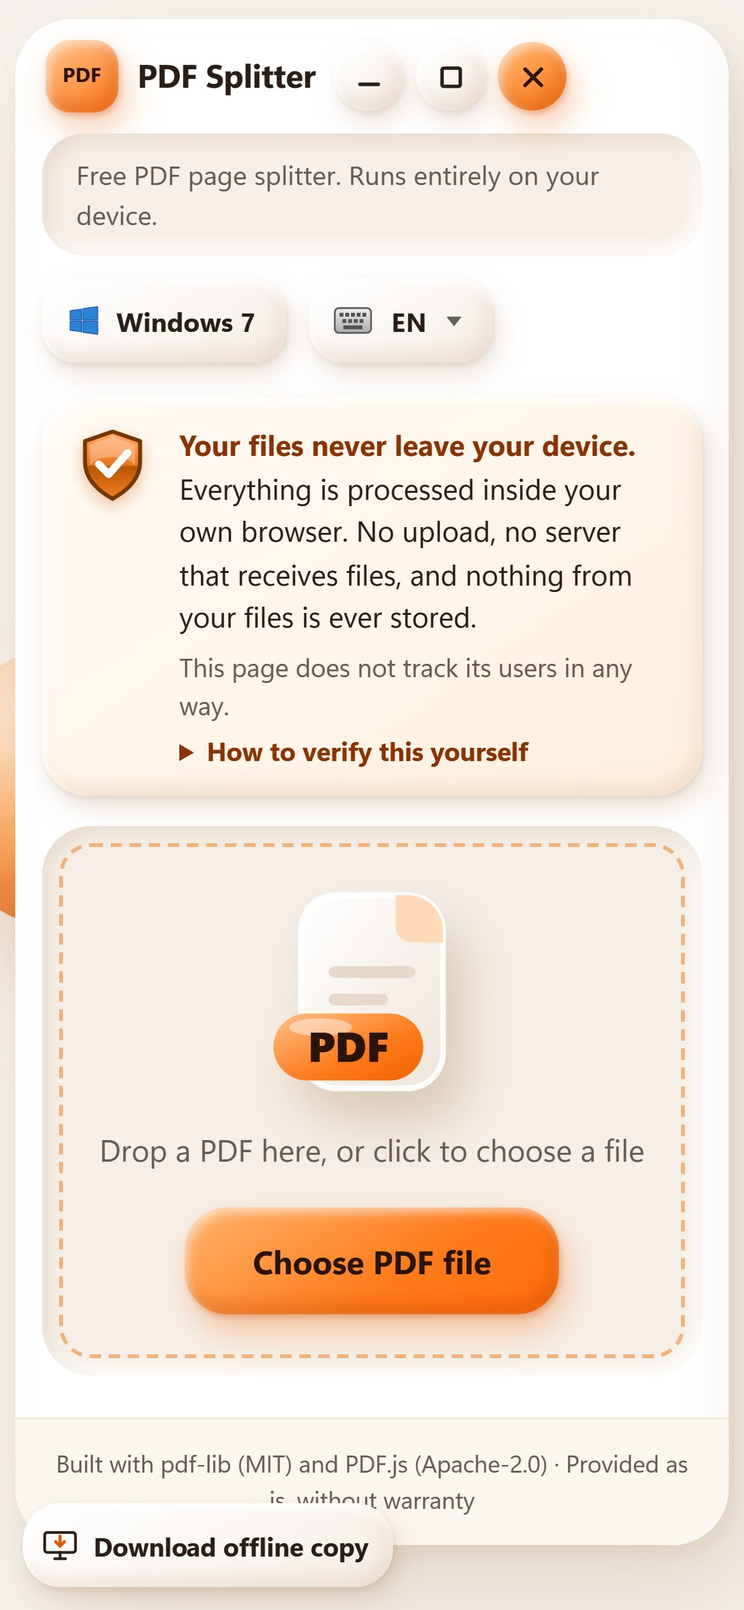
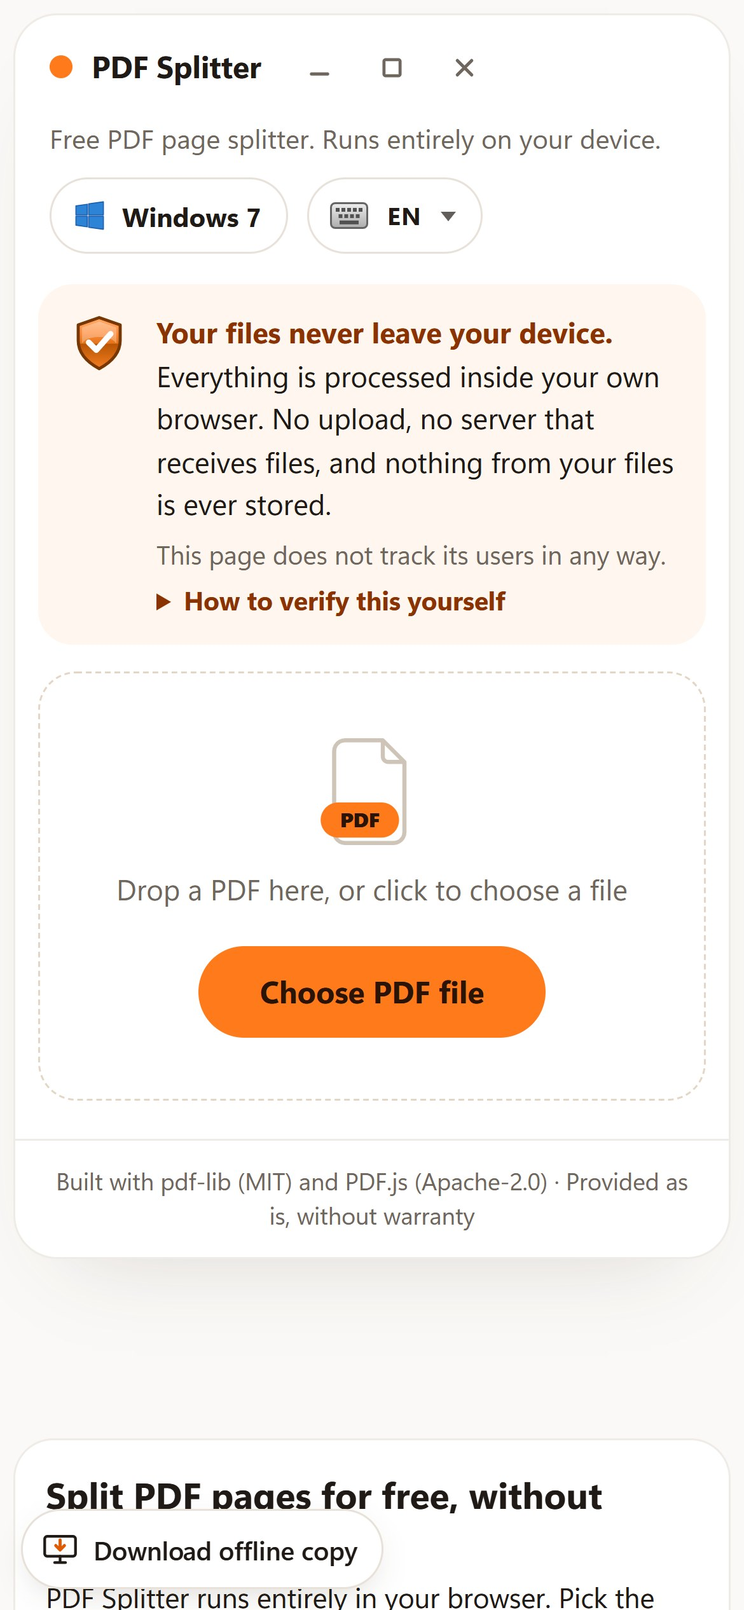
Clay look: make it minimalist (flat white, hairline borders, single orange accent, no decorative props)

diff --git a/template.html b/template.html
@@ -4,7 +4,7 @@
 <meta charset="utf-8">
 <meta http-equiv="Content-Security-Policy" content="/*CSP*/">
 <meta name="viewport" content="width=device-width, initial-scale=1">
-<meta name="theme-color" content="#f6f2ed">
+<meta name="theme-color" content="#faf9f7">
 <!--HEADTAGS-->
 <style>
   :root {
@@ -391,181 +391,140 @@
 
 
 
-  /* ===================== Theme: Modern Clay (white + orange), opt-in via the Clay button ===================== */
-  .scene-cl { display:none; }
+  /* ===================== Theme: Clay (default). Minimal: flat white, hairlines, one orange accent ===================== */
   .langbar .tb { width:18px; height:18px; flex:none; }
+  .big-clay { display:none; }
+  .themebtn[data-to="aero"] .tb-clay, .themebtn[data-to="clay"] .tb-win { display:none; }
+  .themebtn .tlabel { font-weight:700; }
+  html[data-theme="tui"] .themebtn .tlabel { display:inline; }
   html[data-theme="clay"] {
-    --ink:#2a1e16; --ink2:#6a5b50; --edge:rgba(120,80,40,.16);
-    --accent:#ff7a1a; --accent-hi:#ffb36b; --accent-ink:#b84200; --accent-deep:#8a3200;
-    --cream:#fbf6f0; --well:#f6efe7; --line:#f1e8de;
+    --ink:#1f1a16; --ink2:#6f665e; --edge:#e7e1da; --accent:#ff7a1a; --accent-hi:#ffb36b; --accent-ink:#b84200; --accent-deep:#8a3200;
+    --cream:#fbf9f6; --well:#f5f2ee; --line:#efebe6; --tint:#fff7ef;
     --font:ui-rounded,"SF Pro Rounded","Segoe UI Variable Text","Segoe UI","Leelawadee UI","Noto Sans Thai",system-ui,sans-serif;
-    --ease:cubic-bezier(.16,1,.3,1);
-    --sh-raise:inset 2px 3px 5px rgba(255,255,255,.95), inset -3px -5px 9px rgba(190,140,95,.18), 3px 7px 14px rgba(150,105,60,.18), 1px 2px 3px rgba(150,105,60,.14);
-    --sh-raise-hi:inset 2px 3px 5px #fff, inset -3px -5px 9px rgba(190,140,95,.16), 5px 12px 22px rgba(150,105,60,.22), 1px 3px 5px rgba(150,105,60,.14);
-    --sh-press:inset 4px 5px 10px rgba(160,110,65,.28), inset -2px -3px 6px rgba(255,255,255,.85);
-    --sh-well:inset 3px 4px 9px rgba(160,110,65,.17), inset -3px -4px 8px rgba(255,255,255,.95);
-    --sh-orange:inset 2px 3px 5px rgba(255,255,255,.55), inset -3px -5px 9px rgba(185,65,0,.35), 4px 9px 18px rgba(235,100,10,.32), 1px 2px 3px rgba(185,65,0,.25);
-    --sh-orange-hi:inset 2px 3px 5px rgba(255,255,255,.6), inset -3px -5px 9px rgba(185,65,0,.3), 6px 14px 24px rgba(235,100,10,.38), 1px 3px 5px rgba(185,65,0,.25);
-    --sh-orange-press:inset 4px 5px 10px rgba(160,55,0,.45), inset -2px -3px 6px rgba(255,190,130,.4);
-    --sh-card:inset 4px 6px 12px #fff, inset -6px -8px 18px rgba(190,150,110,.10), 16px 26px 56px rgba(150,105,60,.20), 3px 5px 10px rgba(150,105,60,.10);
-    background:#f6f2ed; scrollbar-color:#ffb36b #f6f2ed;
+    --ring:inset 0 0 0 1px #e7e1da; --ring-hi:inset 0 0 0 1px #d6cdc3; --ring-acc:inset 0 0 0 2px #ff7a1a;
+    background:#faf9f7; scrollbar-color:#e3d9cf #faf9f7;
   }
   html[data-theme="clay"] body { font-variant-numeric:tabular-nums; }
   html[data-theme="clay"] ::selection { background:#ff7a1a; color:#2a1408; }
   html[data-theme="clay"] input { caret-color:#ff7a1a; }
   html[data-theme="clay"] a { color:var(--accent-ink); text-underline-offset:3px; }
-  html[data-theme="clay"] :is(button,input,summary,.pg):focus-visible { outline:3px solid var(--accent); outline-offset:3px; box-shadow:var(--fs, none); }
+  html[data-theme="clay"] :is(button,summary,.pg):focus-visible { outline:2px solid var(--accent); outline-offset:2px; box-shadow:var(--fs, none); }
   html[data-theme="clay"] .scene { display:none; }
 
-  /* soft clay props behind the window (static: motion is reserved for state changes) */
-  html[data-theme="clay"] .scene-cl { display:block; position:fixed; inset:0; z-index:-1; overflow:hidden; pointer-events:none; }
-  .scene-cl .cb { position:absolute; display:block; }
-  .scene-cl .cb1 { width:clamp(150px,17vw,250px); aspect-ratio:1; left:calc(-1 * clamp(36px,4.5vw,80px)); top:40%; border-radius:50%;
-    background:radial-gradient(circle at 34% 28%, #ffdcbb 0 9%, #ffb068 34%, #ff7a1a 66%, #e86200 100%);
-    box-shadow:inset -14px -18px 30px rgba(170,60,0,.34), inset 10px 12px 22px rgba(255,255,255,.45), 22px 34px 50px rgba(200,100,30,.26); }
-  .scene-cl .cb2 { width:clamp(200px,24vw,340px); height:clamp(82px,9.5vw,136px); right:calc(-1 * clamp(40px,5vw,90px)); top:10%; border-radius:999px; rotate:-22deg;
-    background:linear-gradient(145deg,#fff,#f3ebe2);
-    box-shadow:inset 8px 10px 16px #fff, inset -10px -12px 22px rgba(190,150,110,.25), 20px 30px 50px rgba(150,105,60,.20); }
-  .scene-cl .cb3 { width:clamp(86px,9vw,132px); height:clamp(190px,21vw,300px); right:5vw; bottom:-6%; border-radius:999px; rotate:24deg;
-    background:linear-gradient(145deg,#ffd2a3,#ffa152 70%,#ff8e33);
-    box-shadow:inset 7px 9px 14px rgba(255,255,255,.55), inset -9px -12px 20px rgba(200,80,0,.28), 18px 28px 44px rgba(200,100,30,.24); }
-  .scene-cl .cb4 { width:clamp(54px,5.5vw,84px); aspect-ratio:1; left:7vw; top:9%; border-radius:50%;
-    background:radial-gradient(circle at 34% 28%, #fff 0 12%, #f6eee5 60%, #eadccd 100%);
-    box-shadow:inset -6px -8px 14px rgba(190,150,110,.28), 10px 16px 26px rgba(150,105,60,.2); }
-  @media (max-width:899px) { .scene-cl .cb2, .scene-cl .cb3 { display:none; } .scene-cl .cb1 { opacity:.9; } }
-
-  /* window */
-  html[data-theme="clay"] .win { max-width:1040px; margin:30px auto 100px; padding:0; border:0; border-radius:40px; background:#fff;
-    -webkit-backdrop-filter:none; backdrop-filter:none; box-shadow:var(--sh-card); }
-  html[data-theme="clay"] .titlebar { height:68px; gap:14px; padding:0 20px 0 22px; border-radius:40px 40px 0 0; }
+  /* window: one white sheet with a hairline */
+  html[data-theme="clay"] .win { max-width:960px; margin:40px auto 100px; padding:0; border:0; border-radius:28px; background:#fff;
+    -webkit-backdrop-filter:none; backdrop-filter:none; box-shadow:0 0 0 1px #efebe6, 0 24px 48px -28px rgba(60,40,20,.18); }
+  html[data-theme="clay"] .titlebar { height:60px; gap:12px; padding:0 14px 0 24px; border:0; border-radius:28px 28px 0 0; background:transparent; box-shadow:none; }
   html[data-theme="clay"] .titlebar svg.appico { display:none; }
-  html[data-theme="clay"] .titlebar::before { content:"PDF"; display:grid; place-items:center; width:42px; height:42px; flex:none; border-radius:15px;
-    font-size:11.5px; font-weight:800; letter-spacing:.2px; color:#2a1408; background:linear-gradient(145deg,#ffc089,#ff7a1a); box-shadow:var(--sh-orange); }
-  html[data-theme="clay"] h1 { font-size:19px; font-weight:800; letter-spacing:-.01em; color:var(--ink); text-shadow:none; }
-  html[data-theme="clay"] .caps { align-self:center; margin:0; gap:10px; }
-  html[data-theme="clay"] .caps button { width:38px; height:38px; min-height:0; margin:0; padding:0; border:0; border-radius:50%; color:var(--ink);
-    background:linear-gradient(145deg,#fff,#f4ede5); box-shadow:var(--sh-raise); --fs:var(--sh-raise);
-    transition:transform .18s var(--ease), box-shadow .18s var(--ease); }
+  html[data-theme="clay"] .titlebar::before { content:""; width:12px; height:12px; flex:none; border-radius:50%; background:var(--accent); }
+  html[data-theme="clay"] h1 { font-size:16px; font-weight:650; letter-spacing:-.005em; color:var(--ink); text-shadow:none; }
+  html[data-theme="clay"] .caps { align-self:center; margin:0 0 0 2px; gap:2px; }
+  html[data-theme="clay"] .caps button { width:34px; height:34px; min-height:0; margin:0; padding:0; border:0; border-radius:50%; color:var(--ink2);
+    background:transparent; box-shadow:none; --fs:none; transition:background .15s ease, color .15s ease; }
   html[data-theme="clay"] .caps button::after { content:none; }
   html[data-theme="clay"] .caps .ia, html[data-theme="clay"] .caps .it { display:none; }
-  html[data-theme="clay"] .caps .iu { display:block; width:17px; height:17px; }
-  html[data-theme="clay"] .caps .c3 { color:#2a1408; background:linear-gradient(145deg,#ffb36b,#ff7a1a); box-shadow:var(--sh-orange); --fs:var(--sh-orange); }
-  html[data-theme="clay"] .caps button:hover:not(:disabled) { transform:translateY(-2px); background:linear-gradient(145deg,#fff,#fbf4ec); box-shadow:var(--sh-raise-hi); }
-  html[data-theme="clay"] .caps .c3:hover:not(:disabled) { background:linear-gradient(145deg,#ffc089,#ff8a33); box-shadow:var(--sh-orange-hi); }
-  html[data-theme="clay"] .caps button:active:not(:disabled) { transform:translateY(1px); box-shadow:var(--sh-press); }
-  html[data-theme="clay"] .caps .c3:active:not(:disabled) { box-shadow:var(--sh-orange-press); }
+  html[data-theme="clay"] .caps .iu { display:block; width:15px; height:15px; }
+  html[data-theme="clay"] .caps button:hover:not(:disabled) { transform:none; color:var(--ink); background:var(--well); box-shadow:none; }
+  html[data-theme="clay"] .caps .c3:hover:not(:disabled) { color:var(--accent-deep); background:#ffe9d6; }
+  html[data-theme="clay"] .caps button:active:not(:disabled) { transform:none; background:#ece6df; box-shadow:none; }
 
-  /* address row: tagline well + the two selector buttons */
-  html[data-theme="clay"] .addr { gap:12px; padding:2px 22px 16px; }
-  html[data-theme="clay"] .abar { padding:11px 18px; border:0; border-radius:22px; background:var(--well); box-shadow:var(--sh-well); }
+  /* address row: plain tagline + the two look/language pills */
+  html[data-theme="clay"] .addr { gap:10px; padding:0 24px 16px; }
+  html[data-theme="clay"] .abar { padding:0; border:0; border-radius:0; background:none; box-shadow:none; }
   html[data-theme="clay"] .abar svg { display:none; }
   html[data-theme="clay"] .abar .hint { color:var(--ink2); font-size:14px; }
-  html[data-theme="clay"] .client { background:transparent; border:0; border-radius:0 0 40px 40px; box-shadow:none; }
+  html[data-theme="clay"] .client { background:transparent; border:0; border-radius:0 0 28px 28px; box-shadow:none; }
 
-  /* buttons */
-  html[data-theme="clay"] button { min-height:44px; padding:8px 20px; border:0; border-radius:18px; color:var(--ink); font-weight:600; text-shadow:none;
-    background:linear-gradient(145deg,#fff,#f5eee6); box-shadow:var(--sh-raise); --fs:var(--sh-raise);
-    transition:transform .18s var(--ease), box-shadow .18s var(--ease), background .18s ease; }
-  html[data-theme="clay"] button:hover:not(:disabled) { transform:translateY(-2px); border:0; background:linear-gradient(145deg,#fff,#fbf4ec); box-shadow:var(--sh-raise-hi); }
-  html[data-theme="clay"] button:active:not(:disabled) { transform:translateY(1px); border:0; background:linear-gradient(145deg,#f7f0e8,#f3ebe2); box-shadow:var(--sh-press); }
+  /* buttons: white pill with a hairline; the only filled button is the primary action */
+  html[data-theme="clay"] button { min-height:40px; padding:8px 18px; border:0; border-radius:999px; color:var(--ink); font-weight:600; text-shadow:none; transform:none;
+    background:#fff; box-shadow:var(--ring); --fs:var(--ring); transition:background .15s ease, box-shadow .15s ease; }
+  html[data-theme="clay"] button:hover:not(:disabled) { border:0; transform:none; background:#faf7f4; box-shadow:var(--ring-hi); }
+  html[data-theme="clay"] button:active:not(:disabled) { border:0; transform:none; background:#f1ede8; box-shadow:var(--ring-hi); }
   html[data-theme="clay"] button:disabled, html[data-theme="clay"] button.primary:disabled, html[data-theme="clay"] button.alt:disabled {
-    cursor:not-allowed; transform:none; color:#9a8b7e; text-shadow:none; background:#f1ebe4; box-shadow:inset 2px 2px 5px rgba(160,110,65,.12), inset -2px -2px 4px rgba(255,255,255,.8); }
-  html[data-theme="clay"] button.primary { color:#2a1408; font-weight:800; background:linear-gradient(145deg,#ffb36b,#ff7a1a 60%,#ff6d0a); box-shadow:var(--sh-orange); --fs:var(--sh-orange); }
-  html[data-theme="clay"] button.primary:hover:not(:disabled) { background:linear-gradient(145deg,#ffc089,#ff8a33 60%,#ff7a1a); box-shadow:var(--sh-orange-hi); }
-  html[data-theme="clay"] button.primary:active:not(:disabled) { background:linear-gradient(145deg,#ff8a33,#ff6d0a); box-shadow:var(--sh-orange-press); }
-  html[data-theme="clay"] button.alt { color:var(--accent-deep); font-weight:700; background:linear-gradient(145deg,#fff4e8,#ffe0c2); box-shadow:var(--sh-raise); }
-  html[data-theme="clay"] button.alt:hover:not(:disabled) { background:linear-gradient(145deg,#fff8f0,#ffe7cf); box-shadow:var(--sh-raise-hi); }
-  html[data-theme="clay"] button.alt:active:not(:disabled) { background:linear-gradient(145deg,#ffe3c8,#ffd7b0); box-shadow:var(--sh-press); }
-  html[data-theme="clay"] button.big { min-height:56px; padding:12px 36px; border-radius:22px; font-size:17px; }
-  html[data-theme="clay"] .langbar { gap:8px; padding:8px 16px 8px 13px; color:var(--ink); }
+    cursor:not-allowed; transform:none; color:#857a70; text-shadow:none; background:#f4f1ed; box-shadow:none; }
+  html[data-theme="clay"] button.primary { color:#2a1408; font-weight:700; background:var(--accent); box-shadow:none; --fs:none; }
+  html[data-theme="clay"] button.primary:hover:not(:disabled) { background:#ff8a33; box-shadow:none; }
+  html[data-theme="clay"] button.primary:active:not(:disabled) { background:#f06b0a; box-shadow:none; }
+  html[data-theme="clay"] button.alt { color:var(--accent-deep); font-weight:700; background:#fff2e6; box-shadow:none; --fs:none; }
+  html[data-theme="clay"] button.alt:hover:not(:disabled) { background:#ffe9d6; box-shadow:none; }
+  html[data-theme="clay"] button.alt:active:not(:disabled) { background:#ffdfc4; box-shadow:none; }
+  html[data-theme="clay"] button.big { min-height:48px; padding:12px 32px; font-size:16px; }
+  html[data-theme="clay"] .langbar { gap:8px; padding:6px 14px 6px 12px; color:var(--ink); }
   html[data-theme="clay"] .langbar .kb { filter:grayscale(1) contrast(.9); }
-  html[data-theme="clay"] .langbar .lcode { font-size:13.5px; letter-spacing:.4px; }
+  html[data-theme="clay"] .langbar .lcode { font-size:13px; letter-spacing:.4px; }
 
-  /* privacy notice: warm cream pillow, shield tinted orange */
-  html[data-theme="clay"] .privacy { gap:4px 14px; margin:6px 22px 20px; padding:18px 22px; color:var(--ink); border:0; border-radius:28px;
-    background:linear-gradient(145deg,#fffaf4,#fff0df); box-shadow:var(--sh-raise); }
-  html[data-theme="clay"] .privacy > svg { width:42px; height:42px; filter:hue-rotate(-78deg) saturate(1.2) drop-shadow(0 3px 4px rgba(200,90,0,.35)); }
+  /* privacy notice: pale tint, no shadow */
+  html[data-theme="clay"] .privacy { gap:4px 14px; margin:4px 24px 20px; padding:16px 20px; color:var(--ink); border:0; border-radius:20px; background:var(--tint); box-shadow:none; }
+  html[data-theme="clay"] .privacy > svg { width:32px; height:32px; filter:hue-rotate(-78deg) saturate(1.2); }
   html[data-theme="clay"] .privacy b { color:var(--accent-deep); }
   html[data-theme="clay"] .privacy .hint, html[data-theme="clay"] .privacy details { color:var(--ink2); }
   html[data-theme="clay"] .privacy summary { color:var(--accent-deep); font-weight:700; }
 
-  /* drop zone: a pressed-in well with a dashed ring */
-  html[data-theme="clay"] #drop { margin:0 22px 28px; padding:40px 22px 44px; border:0; border-radius:32px; outline:2px dashed #f2b27a; outline-offset:-15px;
-    background:var(--well); box-shadow:var(--sh-well); transition:background .18s ease, outline-color .18s ease; }
-  html[data-theme="clay"] #drop.over { background:#fff1e3; outline-color:var(--accent); box-shadow:var(--sh-well); }
-  html[data-theme="clay"] #drop .big-ico { width:112px; height:112px; filter:hue-rotate(-8deg) saturate(.95) drop-shadow(10px 16px 14px rgba(150,105,60,.3)); }
-  html[data-theme="clay"] #drop p { color:var(--ink2); font-size:16px; }
+  /* drop zone: a dashed hairline, nothing else */
+  html[data-theme="clay"] #drop { margin:0 24px 28px; padding:44px 22px 48px; border:1.5px dashed #e4d6c6; border-radius:24px; outline:0; background:transparent; box-shadow:none;
+    transition:background .15s ease, border-color .15s ease; }
+  html[data-theme="clay"] #drop.over { background:var(--tint); border-color:var(--accent); box-shadow:none; }
+  html[data-theme="clay"] #drop .big-ico { display:none; }
+  html[data-theme="clay"] #drop .big-clay { display:block; width:84px; height:84px; margin:0 auto; }
+  html[data-theme="clay"] #drop p { color:var(--ink2); font-size:15px; }
 
   /* command bar */
-  html[data-theme="clay"] .tools { background:#fff; border-top:0; border-bottom:1px solid var(--line); box-shadow:0 12px 20px -16px rgba(150,105,60,.45); }
-  html[data-theme="clay"] .bar { gap:10px; padding:14px 22px; }
-  html[data-theme="clay"] .bar + .bar { border-top:1px solid var(--line); }
+  html[data-theme="clay"] .tools { background:#fff; border-top:0; border-bottom:1px solid var(--line); box-shadow:none; }
+  html[data-theme="clay"] .bar { gap:8px; padding:12px 24px; }
+  html[data-theme="clay"] .bar + .bar { border-top:0; }
   html[data-theme="clay"] .bar b { color:var(--ink); }
-  html[data-theme="clay"] .bar input[type=text] { width:220px; min-height:44px; padding:8px 18px; border:0; border-radius:18px; color:var(--ink); background:var(--well);
-    box-shadow:var(--sh-well); --fs:var(--sh-well); }
-  html[data-theme="clay"] .bar input[type=text]:focus { border:0; box-shadow:var(--sh-well); }
+  html[data-theme="clay"] .bar input[type=text] { width:200px; min-height:40px; padding:8px 16px; border:0; border-radius:999px; color:var(--ink); background:var(--well); box-shadow:none; }
+  html[data-theme="clay"] .bar input[type=text]:focus { border:0; outline:none; background:#fff; box-shadow:var(--ring-acc); }
   html[data-theme="clay"] #msg { color:var(--accent-ink); }
   html[data-theme="clay"] .hint { color:var(--ink2); }
-  html[data-theme="clay"] .howto { padding:14px 22px 4px; }
+  html[data-theme="clay"] .howto { padding:12px 24px 4px; }
 
-  /* thumbnails: soft tiles, selected = orange-ringed and warm */
-  html[data-theme="clay"] #grid { gap:14px; padding:12px 22px 28px; }
-  html[data-theme="clay"] .pg { --pgs:none; --fs:var(--pgs); padding:12px 12px 10px; border:0; border-radius:24px; box-shadow:var(--pgs);
-    transition:transform .18s var(--ease), background .18s ease, box-shadow .18s var(--ease); }
-  html[data-theme="clay"] .pg:hover { --pgs:var(--sh-raise); background:#fffaf5; border:0; transform:translateY(-2px); }
-  html[data-theme="clay"] .pg.sel { --pgs:inset 0 0 0 3px var(--accent), 4px 9px 16px rgba(235,100,10,.22); background:linear-gradient(145deg,#fff5ea,#ffe6cd); border:0; }
-  html[data-theme="clay"] .pg canvas { border:0; border-radius:14px; background:#fff; box-shadow:0 7px 16px rgba(150,105,60,.28), 0 1px 3px rgba(150,105,60,.2); }
-  html[data-theme="clay"] .pg .n { color:var(--ink); margin-top:10px; }
+  /* thumbnails: bare tiles, selected = orange ring */
+  html[data-theme="clay"] #grid { gap:16px; padding:12px 24px 28px; }
+  html[data-theme="clay"] .pg { --fs:none; padding:10px 10px 8px; border:0; border-radius:18px; background:transparent; box-shadow:none;
+    transition:background .15s ease, box-shadow .15s ease; }
+  html[data-theme="clay"] .pg:hover { background:#faf7f3; border:0; transform:none; box-shadow:none; }
+  html[data-theme="clay"] .pg.sel { --fs:var(--ring-acc); background:var(--tint); border:0; box-shadow:var(--ring-acc); }
+  html[data-theme="clay"] .pg canvas { border:0; border-radius:8px; background:#fff; box-shadow:0 0 0 1px #ece6df, 0 2px 6px rgba(60,40,20,.08); }
+  html[data-theme="clay"] .pg .n { color:var(--ink2); margin-top:8px; }
   html[data-theme="clay"] .pg.sel .n { color:var(--accent-deep); font-weight:700; }
-  html[data-theme="clay"] .pg .ck { top:19px; right:19px; filter:hue-rotate(176deg) saturate(1.15) drop-shadow(0 3px 4px rgba(170,70,0,.4)); }
-  html[data-theme="clay"] .status { margin-top:0; padding:16px 22px; color:var(--ink2); background:var(--cream); border-top:1px solid var(--line); border-radius:0 0 40px 40px; }
+  html[data-theme="clay"] .pg .ck { top:16px; right:16px; filter:hue-rotate(176deg) saturate(1.15); }
+  html[data-theme="clay"] .status { margin-top:0; padding:14px 24px; color:var(--ink2); background:transparent; border-top:1px solid var(--line); border-radius:0 0 28px 28px; }
 
-  /* offline download button, about section, easter-egg tooltip */
-  html[data-theme="clay"] .dl { left:18px; bottom:18px; color:var(--ink); font-weight:700; border:0; border-radius:20px; background:linear-gradient(145deg,#fff,#f5eee6); box-shadow:var(--sh-raise);
-    transition:transform .18s var(--ease), box-shadow .18s var(--ease); }
-  html[data-theme="clay"] .dl:hover { transform:translateY(-2px); background:linear-gradient(145deg,#fff,#fbf4ec); border:0; box-shadow:var(--sh-raise-hi); }
-  html[data-theme="clay"] .dl:active { transform:translateY(1px); box-shadow:var(--sh-press); }
+  /* offline download pill, about section, easter-egg tooltip */
+  html[data-theme="clay"] .dl { left:18px; bottom:18px; min-height:40px; color:var(--ink); font-weight:600; border:0; border-radius:999px; background:#fff;
+    box-shadow:0 0 0 1px #e7e1da, 0 6px 18px -6px rgba(60,40,20,.22); transition:background .15s ease; }
+  html[data-theme="clay"] .dl:hover { background:#faf7f4; border:0; transform:none; }
   html[data-theme="clay"] .dl svg path:last-child { stroke:#e05a00; }
-  html[data-theme="clay"] .about { max-width:1040px; color:var(--ink); border:0; border-radius:32px; background:#fff; box-shadow:var(--sh-card); }
+  html[data-theme="clay"] .about { max-width:960px; color:var(--ink); border:0; border-radius:24px; background:#fff; box-shadow:0 0 0 1px #efebe6; }
   html[data-theme="clay"] .about a { color:var(--accent-ink); }
   html[data-theme="clay"] .about code { color:var(--accent-deep); border:0; border-radius:8px; background:#fff0df; }
-  html[data-theme="clay"] .about details { border:0; border-radius:20px; background:var(--well); box-shadow:var(--sh-well); }
+  html[data-theme="clay"] .about details { border:0; border-radius:16px; background:var(--well); box-shadow:none; }
   html[data-theme="clay"] .about summary { color:var(--ink); }
-  html[data-theme="clay"] .nojs { color:var(--ink); background:#fff; border:0; border-radius:20px; box-shadow:var(--sh-raise); }
-  html[data-theme="clay"] .oops-tip { color:var(--ink); border:0; border-radius:16px; background:#fff; box-shadow:var(--sh-raise-hi); }
+  html[data-theme="clay"] .nojs { color:var(--ink); background:#fff; border:0; border-radius:16px; box-shadow:var(--ring); }
+  html[data-theme="clay"] .oops-tip { color:var(--ink); border:0; border-radius:12px; background:#fff; box-shadow:0 0 0 1px #e7e1da, 0 8px 20px -8px rgba(60,40,20,.25); }
   html[data-theme="clay"] .oops-tip::before { background:#fff; border:0; }
-  html[data-theme="tui"] .themebtn .tlabel { display:inline; }
 
   @media (max-width:699px) {
-    html[data-theme="clay"] .win { margin:10px 8px 96px; border-radius:30px; }
-    html[data-theme="clay"] .titlebar { height:60px; padding:0 14px 0 16px; border-radius:30px 30px 0 0; gap:10px; }
-    html[data-theme="clay"] .titlebar::before { width:38px; height:38px; border-radius:13px; font-size:10.5px; }
-    html[data-theme="clay"] h1 { font-size:17px; }
-    html[data-theme="clay"] .caps { gap:7px; }
-    html[data-theme="clay"] .caps button { width:36px; height:36px; }
-    html[data-theme="clay"] .addr { padding:0 14px 14px; flex-wrap:wrap; }
+    html[data-theme="clay"] .win { margin:8px 8px 96px; border-radius:22px; }
+    html[data-theme="clay"] .titlebar { height:54px; padding:0 8px 0 18px; border-radius:22px 22px 0 0; gap:10px; }
+    html[data-theme="clay"] .caps { gap:0; }
+    html[data-theme="clay"] .caps button { width:38px; height:38px; }
+    html[data-theme="clay"] .addr { padding:0 18px 12px; flex-wrap:wrap; }
     html[data-theme="clay"] .abar { flex:1 1 100%; }
-    html[data-theme="clay"] .privacy { margin:4px 14px 16px; padding:14px 16px; border-radius:24px; }
-    html[data-theme="clay"] #drop { margin:0 14px 22px; padding:28px 14px 32px; border-radius:26px; outline-offset:-11px; }
-    html[data-theme="clay"] #drop .big-clay { width:96px; height:96px; }
-    html[data-theme="clay"] .bar { padding:12px 14px; }
+    html[data-theme="clay"] .privacy { margin:4px 12px 14px; padding:14px 16px; border-radius:18px; }
+    html[data-theme="clay"] #drop { margin:0 12px 20px; padding:28px 14px 32px; border-radius:20px; }
+    html[data-theme="clay"] #drop .big-clay { width:68px; height:68px; }
+    html[data-theme="clay"] .bar { padding:10px 16px; }
     html[data-theme="clay"] .bar input[type=text] { flex:1 1 100%; width:auto; }
-    html[data-theme="clay"] button { min-height:44px; }
-    html[data-theme="clay"] .howto { padding:10px 14px 4px; }
+    html[data-theme="clay"] .howto { padding:10px 16px 4px; }
     html[data-theme="clay"] #grid { gap:8px; padding:8px 12px 20px; }
-    html[data-theme="clay"] .pg { padding:10px 10px 8px; border-radius:20px; }
-    html[data-theme="clay"] .status { border-radius:0 0 30px 30px; padding:14px 16px; }
-    html[data-theme="clay"] .client { border-radius:0 0 30px 30px; }
-    html[data-theme="clay"] .dl { left:12px; bottom:12px; min-height:44px; }
-    html[data-theme="clay"] .about { margin:0 8px 110px; padding:16px 16px 18px; border-radius:26px; }
+    html[data-theme="clay"] .pg { padding:8px 8px 6px; border-radius:16px; }
+    html[data-theme="clay"] .status { border-radius:0 0 22px 22px; padding:12px 16px; }
+    html[data-theme="clay"] .client { border-radius:0 0 22px 22px; }
+    html[data-theme="clay"] .dl { left:12px; bottom:12px; }
+    html[data-theme="clay"] .about { margin:0 8px 110px; padding:16px 16px 18px; border-radius:20px; }
   }
-
-
-  .big-clay { display:none; }
-  html[data-theme="clay"] #drop .big-ico { display:none; }
-  html[data-theme="clay"] #drop .big-clay { display:block; width:124px; height:124px; margin:0 auto; filter:drop-shadow(10px 16px 14px rgba(150,105,60,.3)); }
-  .themebtn[data-to="aero"] .tb-clay, .themebtn[data-to="clay"] .tb-win { display:none; }
-  .themebtn .tlabel { font-weight:700; }
 
   /* ===================== About / FAQ (static, crawler-visible) ===================== */
   .about { max-width:860px; margin:0 auto 110px; padding:20px 24px 22px; color:var(--ink); font-size:14.5px; line-height:1.65;
@@ -752,7 +711,6 @@
     <ellipse cx="-58" cy="-92" rx="74" ry="34" fill="#fff" opacity=".2" transform="rotate(-24 -58 -92)"/>
   </g>
 </svg></div>
-<div class="scene-cl" aria-hidden="true"><i class="cb cb1"></i><i class="cb cb2"></i><i class="cb cb3"></i><i class="cb cb4"></i></div>
 <div class="ub-shell" aria-hidden="true">
   <div class="ub-panel">
     <div>Activities</div>
@@ -807,7 +765,7 @@
 
   <div id="drop">
     <svg class="big-ico" aria-hidden="true" focusable="false"><use href="#i-pdf"/></svg>
-    <svg class="big-clay" viewBox="0 0 120 120" aria-hidden="true" focusable="false"><defs><linearGradient id="cg1" x1="0" y1="0" x2="1" y2="1"><stop offset="0" stop-color="#ffffff"/><stop offset="1" stop-color="#efe5da"/></linearGradient><linearGradient id="cg2" x1="0" y1="0" x2="1" y2="1"><stop offset="0" stop-color="#ffc089"/><stop offset=".6" stop-color="#ff7a1a"/><stop offset="1" stop-color="#f06400"/></linearGradient></defs><rect x="24" y="8" width="72" height="98" rx="18" fill="url(#cg1)"/><rect x="24" y="8" width="72" height="98" rx="18" fill="none" stroke="#fff" stroke-width="3" opacity=".9"/><path d="M72 8h6a18 18 0 0 1 18 18v6H80a8 8 0 0 1-8-8z" fill="#ffd9b8"/><rect x="38" y="44" width="44" height="6" rx="3" fill="#e6d9cb"/><rect x="38" y="58" width="30" height="6" rx="3" fill="#e6d9cb"/><rect x="10" y="68" width="76" height="34" rx="17" fill="url(#cg2)"/><ellipse cx="34" cy="75" rx="16" ry="4.500" fill="#fff" opacity=".45"/><text x="48" y="92.500" text-anchor="middle" font-family="Segoe UI,Arial,sans-serif" font-size="21" font-weight="800" fill="#2a1408">PDF</text></svg>
+    <svg class="big-clay" viewBox="0 0 96 96" aria-hidden="true" focusable="false"><path d="M28 10h28l16 16v52a8 8 0 0 1-8 8H28a8 8 0 0 1-8-8V18a8 8 0 0 1 8-8z" fill="#fff" stroke="#cfc4b8" stroke-width="3" stroke-linejoin="round"/><path d="M56 10v12a4 4 0 0 0 4 4h12" fill="none" stroke="#cfc4b8" stroke-width="3" stroke-linejoin="round"/><rect x="10" y="56" width="58" height="26" rx="13" fill="#ff7a1a"/><text x="39" y="74.5" text-anchor="middle" font-family="Segoe UI,Arial,sans-serif" font-size="15" font-weight="800" fill="#2a1408">PDF</text></svg>
     <pre class="ascii" aria-hidden="true">+----------+
 | %PDF-1.7 |
 | ######## |
@@ -960,7 +918,7 @@
   };
 
   // ---------- Themes: minimize = terminal (TUI), maximize = Ubuntu, press again to go back ----------
-  const themeColor = { clay: '#f6f2ed', aero: '#3a9be0', ubuntu: '#300a24', tui: '#000000' };
+  const themeColor = { clay: '#faf9f7', aero: '#3a9be0', ubuntu: '#300a24', tui: '#000000' };
   let theme = 'clay', clockTimer = 0;
   function labelCaps() {
     const a = $('bMin'), b = $('bMax');

diff --git a/README.md b/README.md
@@ -15,7 +15,7 @@
 
 <br>
 
-<img src="docs/screenshots/desktop-en-select.jpg" alt="PDF Splitter in the default Modern Clay look: page thumbnails with five pages selected, orange accent" width="900">
+<img src="docs/screenshots/desktop-en-select.jpg" alt="PDF Splitter in the default minimal Clay look: page thumbnails with five pages selected, orange accent" width="900">
 
 </div>
 
@@ -36,7 +36,7 @@ PDF Splitter does the whole job inside your browser tab. There is no upload step
 | **Quick selectors** | Select all, clear, invert, odd pages, even pages. |
 | **Thai and English** | Auto-detected from the browser, one-click toggle, or force it with `?lang=th` / `?lang=en`. |
 | **Offline copy** | The **Download offline copy** button (bottom-left) gives you one self-contained HTML file with no visit counter and every network connection blocked. Keep it on your desktop and use it with the internet off. |
-| **Four looks** | **Modern Clay** (soft white surfaces, orange accent, inflated clay shadows) is the default. The theme button next to the language button switches to **Windows 7 Frutiger Aero**. The window's minimize button switches to a green-on-black terminal (TUI) look, the maximize button to an Ubuntu 22.04 "Jammy Jellyfish" desktop. Press it again to return to Clay. Same features in all four. |
+| **Four looks** | **Clay** (minimal: flat white, hairline borders, one orange accent) is the default. The theme button next to the language button switches to **Windows 7 Frutiger Aero**. The window's minimize button switches to a green-on-black terminal (TUI) look, the maximize button to an Ubuntu 22.04 "Jammy Jellyfish" desktop. Press it again to return to Clay. Same features in all four. |
 | **Keyboard friendly** | Thumbnails are focusable checkboxes: `Tab` to move, `Space` or `Enter` to toggle. |
 | **Responsive** | Desktop and phone layouts. |
 
@@ -157,6 +157,6 @@ pdf-splitter/
 
 ## Credits and license
 
-Built with [pdf-lib](https://github.com/Hopding/pdf-lib) (MIT) and [PDF.js](https://github.com/mozilla/pdf.js) (Apache-2.0). The default look is a white-and-orange claymorphism style, with Windows 7 Frutiger Aero, Ubuntu 22.04 and a terminal look as alternatives; all artwork is drawn in inline SVG and CSS.
+Built with [pdf-lib](https://github.com/Hopding/pdf-lib) (MIT) and [PDF.js](https://github.com/mozilla/pdf.js) (Apache-2.0). The default look is a minimal white-and-orange style, with Windows 7 Frutiger Aero, Ubuntu 22.04 and a terminal look as alternatives; all artwork is drawn in inline SVG and CSS.
 
 Released under the [MIT License](LICENSE). Provided as is, without warranty.

diff --git a/PRODUCT.md b/PRODUCT.md
@@ -37,7 +37,7 @@ Runs from GitHub Pages or a saved `.html` file, offline-capable. Optional anonym
 
 ## Brand Commitments
 
-Four looks share one DOM and one set of functions. The owner pinned **Modern Clay as the default**: claymorphism on white surfaces with an orange accent, soft inflated shadows, big radii. Windows 7 / Frutiger Aero (glass, gel buttons, sky, bubbles, grass), Ubuntu 22.04 and a green-on-black terminal look stay as opt-in themes at full commitment. Existing copy, buttons, functions and the privacy box stay in every look. The offline copy opens in Clay too.
+Four looks share one DOM and one set of functions. The owner pinned **Clay as the default** and then asked for it to be more minimalist: flat white surfaces, hairline borders, one orange accent (only the primary action is filled), round shapes, no decorative props or heavy shadows. Windows 7 / Frutiger Aero (glass, gel buttons, sky, bubbles, grass), Ubuntu 22.04 and a green-on-black terminal look stay as opt-in themes at full commitment. Existing copy, buttons, functions and the privacy box stay in every look. The offline copy opens in Clay too.
 
 ## Evidence on Hand
 
